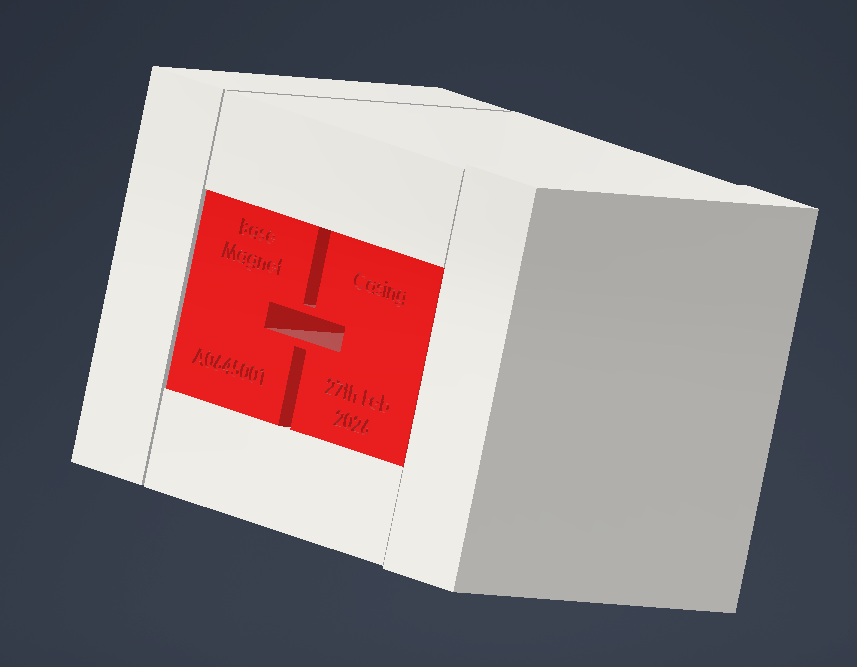
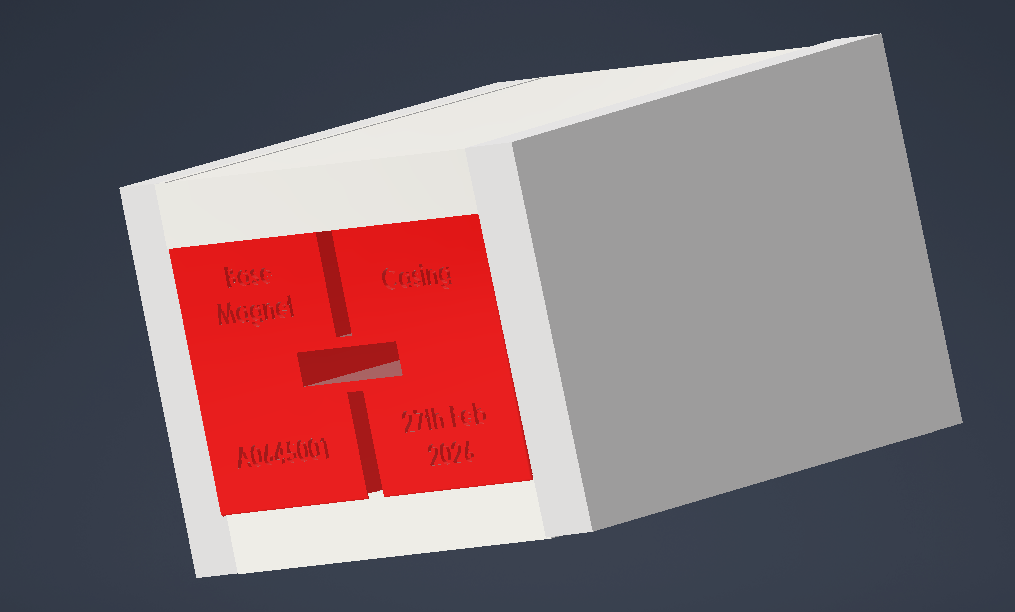
CAD updated

diff --git a/System_development/magnet_design/A650-290/CAD/README.md b/System_development/magnet_design/A650-290/CAD/README.md
@@ -16,9 +16,9 @@
 
 &#x20; <figure>
 
-&#x20;   <img src="CAD\_media/Magnet\_Casing.jpg" width="400" alt="CAD model of the magnet base"> <br>
+&#x20;   <img src="CAD_media\Casing.jpg" width="400" alt="CAD model of the magnet base"> <br>
 
-&#x20;   <figcaption><strong>CAD model:</strong> 3D CAD rendering of the magnet assembly.</figcaption>
+&#x20;   <figcaption><strong>CAD model:</strong> 3D CAD rendering of the base casing.</figcaption>
 
 &#x20; </figure>
 
